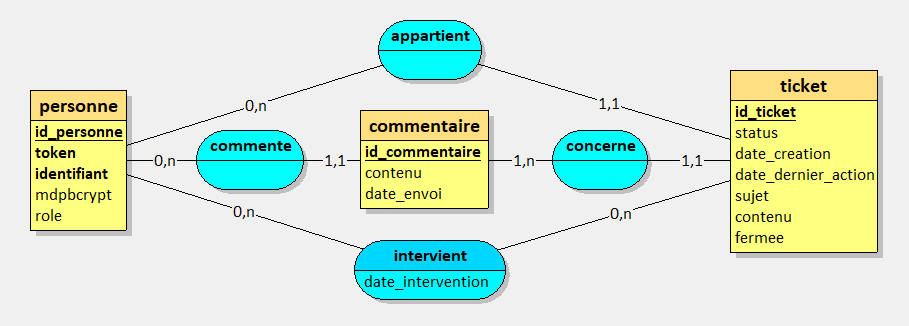
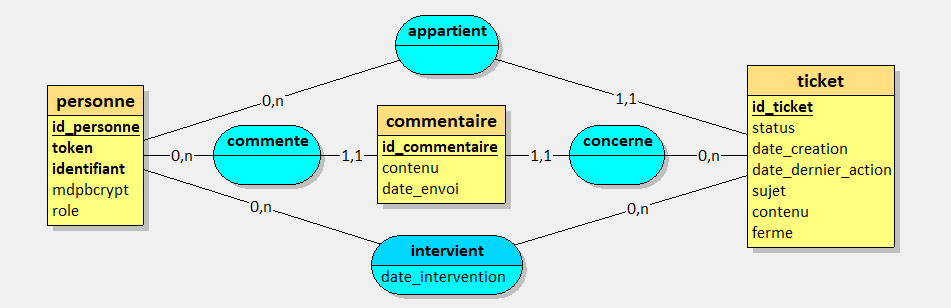
chore : modification mdc et base de donnèes pour etre adaptée mcd correcte

diff --git a/backend/src/services/technicienService.ts b/backend/src/services/technicienService.ts
@@ -11,7 +11,7 @@ interface DbTicketRow {
     statut: StatutTicket;
     date_creation: string;
     date_dernier_action: string;
-    fermee: boolean;
+    ferme: boolean;
     username_auteur: string;
 }
 
@@ -30,7 +30,7 @@ function versResumeTicket(row: DbTicketRow): ticketResumeTechnicien {
         statut: row.statut,
         date_creation: row.date_creation,
         date_dernier_action: row.date_dernier_action,
-        fermee: row.fermee,
+        ferme: row.ferme,
         username_auteur: row.username_auteur
     };
 }
@@ -55,7 +55,7 @@ export async function listerTousLesTickets(): Promise<ticketResumeTechnicien[]> 
             t.statut,
             t.date_creation,
             t.date_dernier_action,
-            t.fermee,
+            t.ferme AS ferme,
             p.identifiant AS username_auteur
         FROM ticket t
         JOIN personne p ON p.id_personne = t.id_utilisateur
@@ -76,7 +76,7 @@ export async function getDetailTicketTechnicien(
             t.statut,
             t.date_creation,
             t.date_dernier_action,
-            t.fermee,
+            t.ferme AS ferme,
             p.identifiant AS username_auteur
         FROM ticket t
         JOIN personne p ON p.id_personne = t.id_utilisateur
@@ -107,7 +107,7 @@ export async function getDetailTicketTechnicien(
         statut: ticket.statut,
         date_creation: ticket.date_creation,
         date_dernier_action: ticket.date_dernier_action,
-        fermee: ticket.fermee,
+        ferme: ticket.ferme,
         username_auteur: ticket.username_auteur,
         commentaires: commentairesResult.rows.map(versCommentaire)
     };
@@ -119,19 +119,19 @@ export async function changerStatutTicket(
     statut: StatutTicket
 ): Promise<"success" | "introuvable" | "ticket_ferme"> {
     const result = await query<{ id_ticket: number }>(
-        "UPDATE ticket SET statut = $1, date_dernier_action = NOW() WHERE id_ticket = $2 AND fermee = FALSE RETURNING id_ticket",
+        "UPDATE ticket SET statut = $1, date_dernier_action = NOW() WHERE id_ticket = $2 AND ferme = FALSE RETURNING id_ticket",
         [statut, idTicket]
     );
 
     if (result.rows.length > 0) return "success";
 
-    const etat = await query<{ fermee: boolean }>(
-        "SELECT fermee FROM ticket WHERE id_ticket = $1 LIMIT 1",
+    const etat = await query<{ ferme: boolean }>(
+        "SELECT ferme AS ferme FROM ticket WHERE id_ticket = $1 LIMIT 1",
         [idTicket]
     );
 
     if (etat.rows.length === 0) return "introuvable";
-    if (etat.rows[0].fermee) return "ticket_ferme";
+    if (etat.rows[0].ferme) return "ticket_ferme";
     return "introuvable";
 }
 
@@ -142,12 +142,12 @@ export async function ajouterCommentaire(
     contenu: string
 ): Promise<"success" | "ticket_introuvable" | "ticket_ferme"> {
     // Vérifier que le ticket existe
-    const ticketExiste = await query<{ id_ticket: number; fermee: boolean }>(
-        "SELECT id_ticket, fermee FROM ticket WHERE id_ticket = $1 LIMIT 1",
+    const ticketExiste = await query<{ id_ticket: number; ferme: boolean }>(
+        "SELECT id_ticket, ferme AS ferme FROM ticket WHERE id_ticket = $1 LIMIT 1",
         [idTicket]
     );
     if (ticketExiste.rows.length === 0) return "ticket_introuvable";
-    if (ticketExiste.rows[0].fermee) return "ticket_ferme";
+    if (ticketExiste.rows[0].ferme) return "ticket_ferme";
 
     await query(
         "INSERT INTO commentaire (contenu, id_ticket, id_personne) VALUES ($1, $2, $3)",
@@ -171,8 +171,8 @@ export async function fermerTicket(
     try {
         await client.query("BEGIN");
 
-        const ticket = await client.query<{ fermee: boolean }>(
-            "SELECT fermee FROM ticket WHERE id_ticket = $1 LIMIT 1 FOR UPDATE",
+        const ticket = await client.query<{ ferme: boolean }>(
+            "SELECT ferme AS ferme FROM ticket WHERE id_ticket = $1 LIMIT 1 FOR UPDATE",
             [idTicket]
         );
 
@@ -181,13 +181,13 @@ export async function fermerTicket(
             return "ticket_introuvable";
         }
 
-        if (ticket.rows[0].fermee) {
+        if (ticket.rows[0].ferme) {
             await client.query("ROLLBACK");
             return "deja_ferme";
         }
 
         await client.query(
-            "UPDATE ticket SET fermee = TRUE, date_dernier_action = NOW() WHERE id_ticket = $1",
+            "UPDATE ticket SET ferme = TRUE, date_dernier_action = NOW() WHERE id_ticket = $1",
             [idTicket]
         );
 

diff --git a/backend/src/db/initDatabase.ts b/backend/src/db/initDatabase.ts
@@ -6,9 +6,9 @@ import { getBcryptSaltRounds } from "../constants/securite.js";
 // Création du schéma complet adapté au MCD support technicien ticket
 
 async function creerSchema(): Promise<void> {
-    try {
-        // Table personne-base commune des comptes
-        await query(`
+
+    // Table personne-base commune des comptes
+    await query(`
 CREATE TABLE IF NOT EXISTS personne (
     id_personne         INTEGER GENERATED ALWAYS AS IDENTITY PRIMARY KEY,
     identifiant         VARCHAR(50) NOT NULL UNIQUE,
@@ -19,7 +19,7 @@ CREATE TABLE IF NOT EXISTS personne (
 );
 `);
 
-        await query(`
+    await query(`
 CREATE OR REPLACE FUNCTION interdire_modification_role_personne()
 RETURNS TRIGGER AS $$
 BEGIN
@@ -31,7 +31,7 @@ END;
 $$ LANGUAGE plpgsql;
 `);
 
-        await query(`
+    await query(`
 DROP TRIGGER IF EXISTS trig_interdire_modification_role_personne ON personne;
 CREATE TRIGGER trig_interdire_modification_role_personne
 BEFORE UPDATE OF role ON personne
@@ -39,8 +39,8 @@ FOR EACH ROW
 EXECUTE FUNCTION interdire_modification_role_personne();
 `);
 
-        // Table ticket-demandes de support créées par les utilisateurs
-        await query(`
+    // Table ticket-demandes de support créées par les utilisateurs
+    await query(`
 CREATE TABLE IF NOT EXISTS ticket (
     id_ticket       INTEGER GENERATED ALWAYS AS IDENTITY PRIMARY KEY,
     sujet           VARCHAR(200) NOT NULL,
@@ -49,12 +49,19 @@ CREATE TABLE IF NOT EXISTS ticket (
                     CHECK (statut IN ('en_attente', 'en_cours', 'resolu', 'non_resolu')),
     date_creation   TIMESTAMP NOT NULL DEFAULT NOW(),
     date_dernier_action TIMESTAMP NOT NULL DEFAULT NOW(),
-    fermee          BOOLEAN NOT NULL DEFAULT FALSE,
+    ferme           BOOLEAN NOT NULL DEFAULT FALSE,
     id_utilisateur  INTEGER NOT NULL REFERENCES personne(id_personne) ON DELETE CASCADE
 );
 `);
-        // Table commentaire-historique des échanges sur un ticket
-        await query(`
+
+    // Migration de fermee a ferme 
+    try {
+        await query("ALTER TABLE ticket RENAME COLUMN fermee TO ferme;");
+    } catch (error: unknown) {
+
+    };
+
+    await query(`
 CREATE TABLE IF NOT EXISTS commentaire (
     id_commentaire  INTEGER GENERATED ALWAYS AS IDENTITY PRIMARY KEY,
     contenu         TEXT NOT NULL,
@@ -64,14 +71,14 @@ CREATE TABLE IF NOT EXISTS commentaire (
 );
 `);
 
-        await query(`
+    await query(`
 CREATE OR REPLACE FUNCTION nettoyer_tickets_fermes()
 RETURNS INTEGER AS $$
 DECLARE
     nb_supprimes INTEGER;
 BEGIN
     DELETE FROM ticket
-    WHERE fermee = TRUE
+    WHERE ferme = TRUE
       AND date_dernier_action <= NOW() - INTERVAL '7 days';
 
     GET DIAGNOSTICS nb_supprimes = ROW_COUNT;
@@ -80,9 +87,6 @@ END;
 $$ LANGUAGE plpgsql;
 `);
 
-    } finally {
-        await query("SELECT pg_advisory_unlock(24031991)");
-    }
 }
 
 // Garantit que le compte admin existe et est à jour avec les variables d'environnement

diff --git a/frontend/src/pages/PageTechnicien.tsx b/frontend/src/pages/PageTechnicien.tsx
@@ -44,7 +44,7 @@ function PageTechnicien({ username, ongletActif }: Props) {
 
   const idsTicketsPrisEnChargeSet = useMemo(() => new Set(idsTicketsPrisEnCharge), [idsTicketsPrisEnCharge]);
   const ticketsPrisEnCharge = tickets.filter(ticket => idsTicketsPrisEnChargeSet.has(ticket.id));
-  const ticketsATraiter = tickets.filter(ticket => !idsTicketsPrisEnChargeSet.has(ticket.id) && !ticket.fermee);
+  const ticketsATraiter = tickets.filter(ticket => !idsTicketsPrisEnChargeSet.has(ticket.id) && !ticket.ferme);
   const ticketsAffiches = ongletActif === 'tickets_en_cours' ? ticketsPrisEnCharge : ticketsATraiter;
   const titreListe = ongletActif === 'tickets_en_cours'
     ? 'Tickets sur lesquels je travaille'
@@ -106,7 +106,7 @@ function PageTechnicien({ username, ongletActif }: Props) {
             ...ticket,
             statut: ticketDetail.statut,
             date_dernier_action: ticketDetail.date_dernier_action,
-            fermee: ticketDetail.fermee
+            ferme: ticketDetail.ferme
           }
           : ticket
       )));
@@ -199,7 +199,7 @@ function PageTechnicien({ username, ongletActif }: Props) {
                     </span>
                     <div className="flex items-center gap-2">
                       <BadgeStatut statut={ticket.statut} />
-                      {ticket.fermee && (
+                      {ticket.ferme && (
                         <span className="px-2 py-1 rounded-full text-[11px] font-medium bg-gray-800 text-white">
                           Fermé
                         </span>
@@ -271,7 +271,7 @@ function PageTechnicien({ username, ongletActif }: Props) {
           actions={(
             <ActionsTicket
               mode="technicien"
-              fermee={ticketSelectionne.fermee}
+              ferme={ticketSelectionne.ferme}
               commentaire={contenuCommentaire}
               onCommentaireChange={setContenuCommentaire}
               onCommenter={handleCommenter}

diff --git a/backend/src/services/utilisateurService.ts b/backend/src/services/utilisateurService.ts
@@ -13,7 +13,7 @@ interface DbTicketUtilisateurRow {
     statut: StatutTicket;
     date_creation: string;
     date_dernier_action: string;
-    fermee: boolean;
+    ferme: boolean;
 }
 
 interface DbCommentaireRow {
@@ -30,7 +30,7 @@ export async function listerTicketsUtilisateur(
     idUtilisateur: number
 ): Promise<ticketResumeUtilisateur[]> {
     const result = await query<DbTicketUtilisateurRow>(`
-        SELECT id_ticket, sujet, contenu, statut, date_creation, date_dernier_action, fermee
+        SELECT id_ticket, sujet, contenu, statut, date_creation, date_dernier_action, ferme AS ferme
         FROM ticket
         WHERE id_utilisateur = $1
         ORDER BY date_creation DESC
@@ -42,7 +42,7 @@ export async function listerTicketsUtilisateur(
         statut: row.statut,
         date_creation: row.date_creation,
         date_dernier_action: row.date_dernier_action,
-        fermee: row.fermee
+        ferme: row.ferme
     }));
 }
 
@@ -53,7 +53,7 @@ export async function getDetailTicketUtilisateur(
     idUtilisateur: number
 ): Promise<ticketDetailUtilisateur | null | "acces_refuse"> {
     const ticketResult = await query<DbTicketUtilisateurRow>(`
-        SELECT id_ticket, sujet, contenu, statut, date_creation, date_dernier_action, fermee
+        SELECT id_ticket, sujet, contenu, statut, date_creation, date_dernier_action, ferme AS ferme
         FROM ticket
         WHERE id_ticket = $1
         LIMIT 1
@@ -101,7 +101,7 @@ export async function getDetailTicketUtilisateur(
         statut: ticket.statut,
         date_creation: ticket.date_creation,
         date_dernier_action: ticket.date_dernier_action,
-        fermee: ticket.fermee,
+        ferme: ticket.ferme,
         commentaires
     };
 }

diff --git a/frontend/src/pages/PageUtilisateur.tsx b/frontend/src/pages/PageUtilisateur.tsx
@@ -172,7 +172,7 @@ function PageUtilisateur() {
                       </span>
                       <div className="flex items-center gap-2">
                         <BadgeStatut statut={t.statut} />
-                        {t.fermee && (
+                        {t.ferme && (
                           <span className="px-2 py-1 rounded-full text-[11px] font-medium bg-gray-800 text-white">
                             Fermé
                           </span>
@@ -243,7 +243,7 @@ function PageUtilisateur() {
           actions={(
             <ActionsTicket
               mode="utilisateur"
-              fermee={ticketOuvert.fermee}
+              ferme={ticketOuvert.ferme}
               commentaire={commentaire}
               onCommentaireChange={setCommentaire}
               onCommenter={handleCommenter}

diff --git a/frontend/src/components/DetailTicketComplet.tsx b/frontend/src/components/DetailTicketComplet.tsx
@@ -12,7 +12,7 @@ interface TicketDetailCommun {
     statut: StatutTicket;
     date_creation: string;
     date_dernier_action: string;
-    fermee: boolean;
+    ferme: boolean;
     commentaires: commentaireItem[];
     username_auteur?: string;
 }
@@ -42,7 +42,7 @@ function DetailTicketComplet({
                     <h3 className="font-semibold text-gray-800">{ticket.sujet}</h3>
                     <div className="flex items-center gap-2">
                         <BadgeStatut statut={ticket.statut} />
-                        {ticket.fermee && (
+                        {ticket.ferme && (
                             <span className="px-2 py-1 rounded-full text-xs font-medium bg-gray-800 text-white">
                                 Fermé
                             </span>

diff --git a/frontend/src/components/ActionsTicket.tsx b/frontend/src/components/ActionsTicket.tsx
@@ -3,7 +3,7 @@ import { LIBELLE_STATUT, STATUTS_TICKET, type StatutTicket } from '@shared/types
 
 interface Props {
     mode: 'utilisateur' | 'technicien';
-    fermee: boolean;
+    ferme: boolean;
     commentaire: string;
     onCommentaireChange: (value: string) => void;
     onCommenter: (e: FormEvent) => void;
@@ -18,7 +18,7 @@ interface Props {
 
 function ActionsTicket({
     mode,
-    fermee,
+    ferme,
     commentaire,
     onCommentaireChange,
     onCommenter,
@@ -34,7 +34,7 @@ function ActionsTicket({
 
     return (
         <div className="space-y-3">
-            {fermee ? (
+            {ferme ? (
                 <p className="text-sm text-gray-500">Ticket fermé.</p>
             ) : (
                 <>

diff --git a/backend/src/tests/technicien.test.ts b/backend/src/tests/technicien.test.ts
@@ -66,7 +66,7 @@ test("Technicien : fermeture ajoute un commentaire et bloque les actions", async
 
         const detail = await technicienService.getDetailTicketTechnicien(creationTicket.id);
         assert.ok(detail);
-        assert.equal(detail?.fermee, true);
+        assert.equal(detail?.ferme, true);
         const dernierCommentaire = detail!.commentaires[detail!.commentaires.length - 1];
         assert.equal(dernierCommentaire?.contenu, "J'ai fermé ce ticket");
 

diff --git a/shared/types/api/utilisateurApi.ts b/shared/types/api/utilisateurApi.ts
@@ -10,7 +10,7 @@ export interface ticketResumeUtilisateur {
     statut: StatutTicket;
     date_creation: string;
     date_dernier_action: string;
-    fermee: boolean;
+    ferme: boolean;
 }
 
 export interface ticketDetailUtilisateur extends ticketResumeUtilisateur {

diff --git a/shared/types/api/technicienApi.ts b/shared/types/api/technicienApi.ts
@@ -9,7 +9,7 @@ export interface ticketResumeTechnicien {
     statut: StatutTicket;
     date_creation: string;
     date_dernier_action: string;
-    fermee: boolean;
+    ferme: boolean;
     username_auteur: string;
 }
 

diff --git a/backend/src/models/ticket.ts b/backend/src/models/ticket.ts
@@ -8,7 +8,7 @@ interface Ticket {
     statut: StatutTicket;
     date_creation: Date;
     date_dernier_action: Date;
-    fermee: boolean;
+    ferme: boolean;
     id_utilisateur: number;
 }
 
